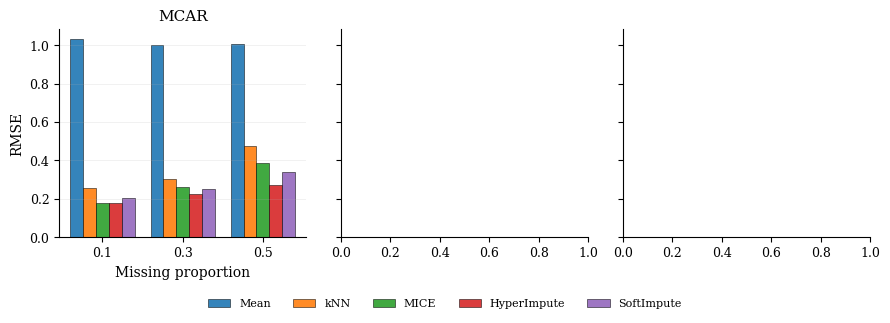
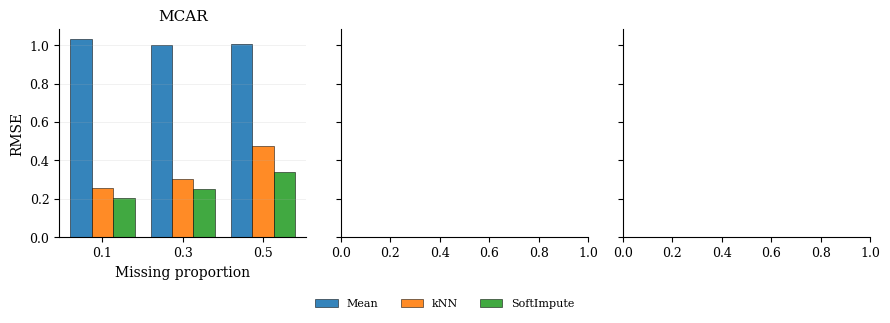
Change MAR to HDOP

diff --git a/src/common/amputation.py b/src/common/amputation.py
@@ -1,6 +1,5 @@
 """
 Missingness mechanisms: MCAR, MAR, MNAR.
-
 """
 
 from __future__ import annotations
@@ -8,17 +7,9 @@ from __future__ import annotations
 import numpy as np
 
 def _calibrate_intercept(scores: np.ndarray, slope: float, target_rate: float) -> float:
-    """Bisection-solve for intercept b so mean(sigmoid(slope*scores + b)) == target_rate.
-
-    Used by MAR (scores are row-level driver sums) and MNAR (scores are
-    per-cell values, flattened). Works for any input shape since we only
-    need the global mean.
-    """
     flat = scores.reshape(-1)
-
     def mean_p(b):
         return float(np.mean(1.0 / (1.0 + np.exp(-(slope * flat + b)))))
-
     lo, hi = -50.0, 50.0
     for _ in range(80):
         mid = 0.5 * (lo + hi)
@@ -29,66 +20,68 @@ def _calibrate_intercept(scores: np.ndarray, slope: float, target_rate: float) -
     return 0.5 * (lo + hi)
 
 
-def ampute_mcar(shape: tuple[int, int], prop: float,
-                target_col_idx: np.ndarray,
-                rng: np.random.Generator) -> np.ndarray:
+def ampute_mcar(shape, prop, target_col_idx, rng):
     mask = np.zeros(shape, dtype=bool)
     sub_mask = rng.random((shape[0], len(target_col_idx))) < prop
     mask[:, target_col_idx] = sub_mask
     return mask
 
 
-def ampute_mar(data_scaled: np.ndarray, prop: float,
-               target_col_idx: np.ndarray,
-               driver_col_idx: np.ndarray,
-               rng: np.random.Generator) -> np.ndarray:
+def _mar_row_score(data_scaled, driver_col_idx, score_mode):
+    cols = data_scaled[:, driver_col_idx]
+    if score_mode == "single":
+        if cols.shape[1] != 1:
+            raise ValueError(
+                "score_mode='single' expects exactly one driver column, "
+                f"got {cols.shape[1]}."
+            )
+        score = cols[:, 0]
+    elif score_mode == "distance":
+        centroid = cols.mean(axis=0)
+        score = np.sqrt(((cols - centroid) ** 2).sum(axis=1))
+    elif score_mode == "sum":
+        score = cols.sum(axis=1)
+    else:
+        raise ValueError(f"Unknown score_mode: {score_mode!r}")
+    return (score - score.mean()) / (score.std() + 1e-8)
+
+
+def ampute_mar(data_scaled, prop, target_col_idx, driver_col_idx, rng,
+               score_mode="single"):
     n_rows = data_scaled.shape[0]
     mask = np.zeros(data_scaled.shape, dtype=bool)
-
-    # Row-level score from standardised driver columns
-    score = data_scaled[:, driver_col_idx].sum(axis=1)
-    score = (score - score.mean()) / (score.std() + 1e-8)
-
+    score = _mar_row_score(data_scaled, driver_col_idx, score_mode)
     slope = 1.0
     intercept = _calibrate_intercept(score, slope, prop)
-    p_row = 1.0 / (1.0 + np.exp(-(slope * score + intercept)))  # shape (n_rows,)
-
+    p_row = 1.0 / (1.0 + np.exp(-(slope * score + intercept)))
     draws = rng.random((n_rows, len(target_col_idx)))
     sub_mask = draws < p_row[:, None]
     mask[:, target_col_idx] = sub_mask
     return mask
 
 
-def ampute_mnar(data_scaled: np.ndarray, prop: float,
-                target_col_idx: np.ndarray,
-                rng: np.random.Generator) -> np.ndarray:
+def ampute_mnar(data_scaled, prop, target_col_idx, rng):
     mask = np.zeros(data_scaled.shape, dtype=bool)
-
-    # Per-cell scores: just the standardised target values themselves.
-    cell_vals = data_scaled[:, target_col_idx]  # shape (n_rows, n_targets)
-
-    slope = 1.0  # high values -> high miss probability
+    cell_vals = data_scaled[:, target_col_idx]
+    slope = 1.0
     intercept = _calibrate_intercept(cell_vals, slope, prop)
     p_cell = 1.0 / (1.0 + np.exp(-(slope * cell_vals + intercept)))
-
     draws = rng.random(cell_vals.shape)
     sub_mask = draws < p_cell
     mask[:, target_col_idx] = sub_mask
     return mask
 
 
-# Mechanism registry so drivers can dispatch by name without an if/elif ladder.
-def build_mask(mechanism: str, data_scaled: np.ndarray, prop: float,
-               target_col_idx: np.ndarray, rng: np.random.Generator,
-               driver_col_idx: np.ndarray | None = None) -> np.ndarray:
-    """Single entry point. `mechanism` in {'mcar', 'mar', 'mnar'}."""
+def build_mask(mechanism, data_scaled, prop, target_col_idx, rng,
+               driver_col_idx=None, mar_score_mode="single"):
     m = mechanism.lower()
     if m == "mcar":
         return ampute_mcar(data_scaled.shape, prop, target_col_idx, rng)
     if m == "mar":
         if driver_col_idx is None:
             raise ValueError("MAR requires driver_col_idx")
-        return ampute_mar(data_scaled, prop, target_col_idx, driver_col_idx, rng)
+        return ampute_mar(data_scaled, prop, target_col_idx, driver_col_idx,
+                          rng, score_mode=mar_score_mode)
     if m == "mnar":
         return ampute_mnar(data_scaled, prop, target_col_idx, rng)
     raise ValueError(f"Unknown mechanism: {mechanism}")

diff --git a/src/imputers/imputers.py b/src/imputers/imputers.py
@@ -56,27 +56,29 @@ class MICEImputer(Imputer):
 
 class SoftImputeWrapper(Imputer):
     """SoftImpute via fancyimpute, when compatible with installed sklearn."""
-
+ 
     name = "SoftImpute"
-
-    def __init__(self, max_iters: int = 100):
+ 
+    def __init__(self, max_iters: int = 100, rank: int = None, shrinkage_value: float = None):
         self.max_iters = max_iters
-
+        self.rank = rank
+        self.shrinkage_value = shrinkage_value
+ 
     def fit_transform(self, X: np.ndarray, seed: int) -> np.ndarray:
         from fancyimpute import SoftImpute as FancySoftImpute
         import fancyimpute.solver as fancy_solver
         import fancyimpute.soft_impute as fancy_soft_impute
         from sklearn.utils.validation import check_array as sklearn_check_array
-
+ 
         def _compat_check_array(*args, force_all_finite=True, **kwargs):
             if "ensure_all_finite" not in kwargs:
                 kwargs["ensure_all_finite"] = force_all_finite
             return sklearn_check_array(*args, **kwargs)
-
+ 
         fancy_solver.check_array = _compat_check_array
         fancy_soft_impute.check_array = _compat_check_array
-
-        model = FancySoftImpute(max_iters=self.max_iters, verbose=False)
+ 
+        model = FancySoftImpute(max_iters=self.max_iters, max_rank=self.rank, shrinkage_value=self.shrinkage_value, verbose=False)
         return np.asarray(model.fit_transform(X.copy()), dtype=float)
     
 class HyperImputeImputer(Imputer):
@@ -102,7 +104,7 @@ def get_default_imputers(
         MeanImputer(),
         KNNImputerWrapper(k=5),
         MICEImputer(max_iter=10),
-        SoftImputeWrapper(),
+        SoftImputeWrapper(rank=None, shrinkage_value=None),
         HyperImputeImputer(),
     ]
     return imputers

diff --git a/src/common/experiment.py b/src/common/experiment.py
@@ -29,11 +29,23 @@ class ExperimentConfig:
     target_cols: list[str]
     retained_cols: list[str]
     mar_driver_cols: list[str]
+    mar_score_mode: str = "single" 
     proportions: list[float] = field(default_factory=lambda: [0.10, 0.30, 0.50])
     n_seeds: int = 1
     scenarios: list[tuple[str, str]] = field(default_factory=lambda: [
         ("MCAR", "mcar"), ("MAR", "mar"), ("MNAR", "mnar"),
     ])
+
+    def __post_init__(self):
+        if self.mar_score_mode == "single" and len(self.mar_driver_cols) != 1:
+            raise ValueError(
+                f"mar_score_mode='single' needs exactly one driver column, "
+                f"got {self.mar_driver_cols}"
+            )
+        if self.mar_score_mode == "distance" and len(self.mar_driver_cols) < 2:
+            raise ValueError(
+                "mar_score_mode='distance' needs >=2 driver columns (e.g. lat, lon)"
+            )
 
     def col_index(self, cols: list[str]) -> np.ndarray:
         lut = {c: i for i, c in enumerate(self.retained_cols)}
@@ -132,7 +144,7 @@ def run_experiments(clean_data: pd.DataFrame,
                     rng = np.random.default_rng(seed)
                     mask = build_mask(mechanism, data_scaled, prop,
                                       target_idx, rng,
-                                      driver_col_idx=mar_driver_idx)
+                                      driver_col_idx=mar_driver_idx, mar_score_mode=config.mar_score_mode)
                     metrics = evaluate_one_run(data_scaled, mask, imputer, seed)
                     records.append({
                         "scenario": scenario_name,
